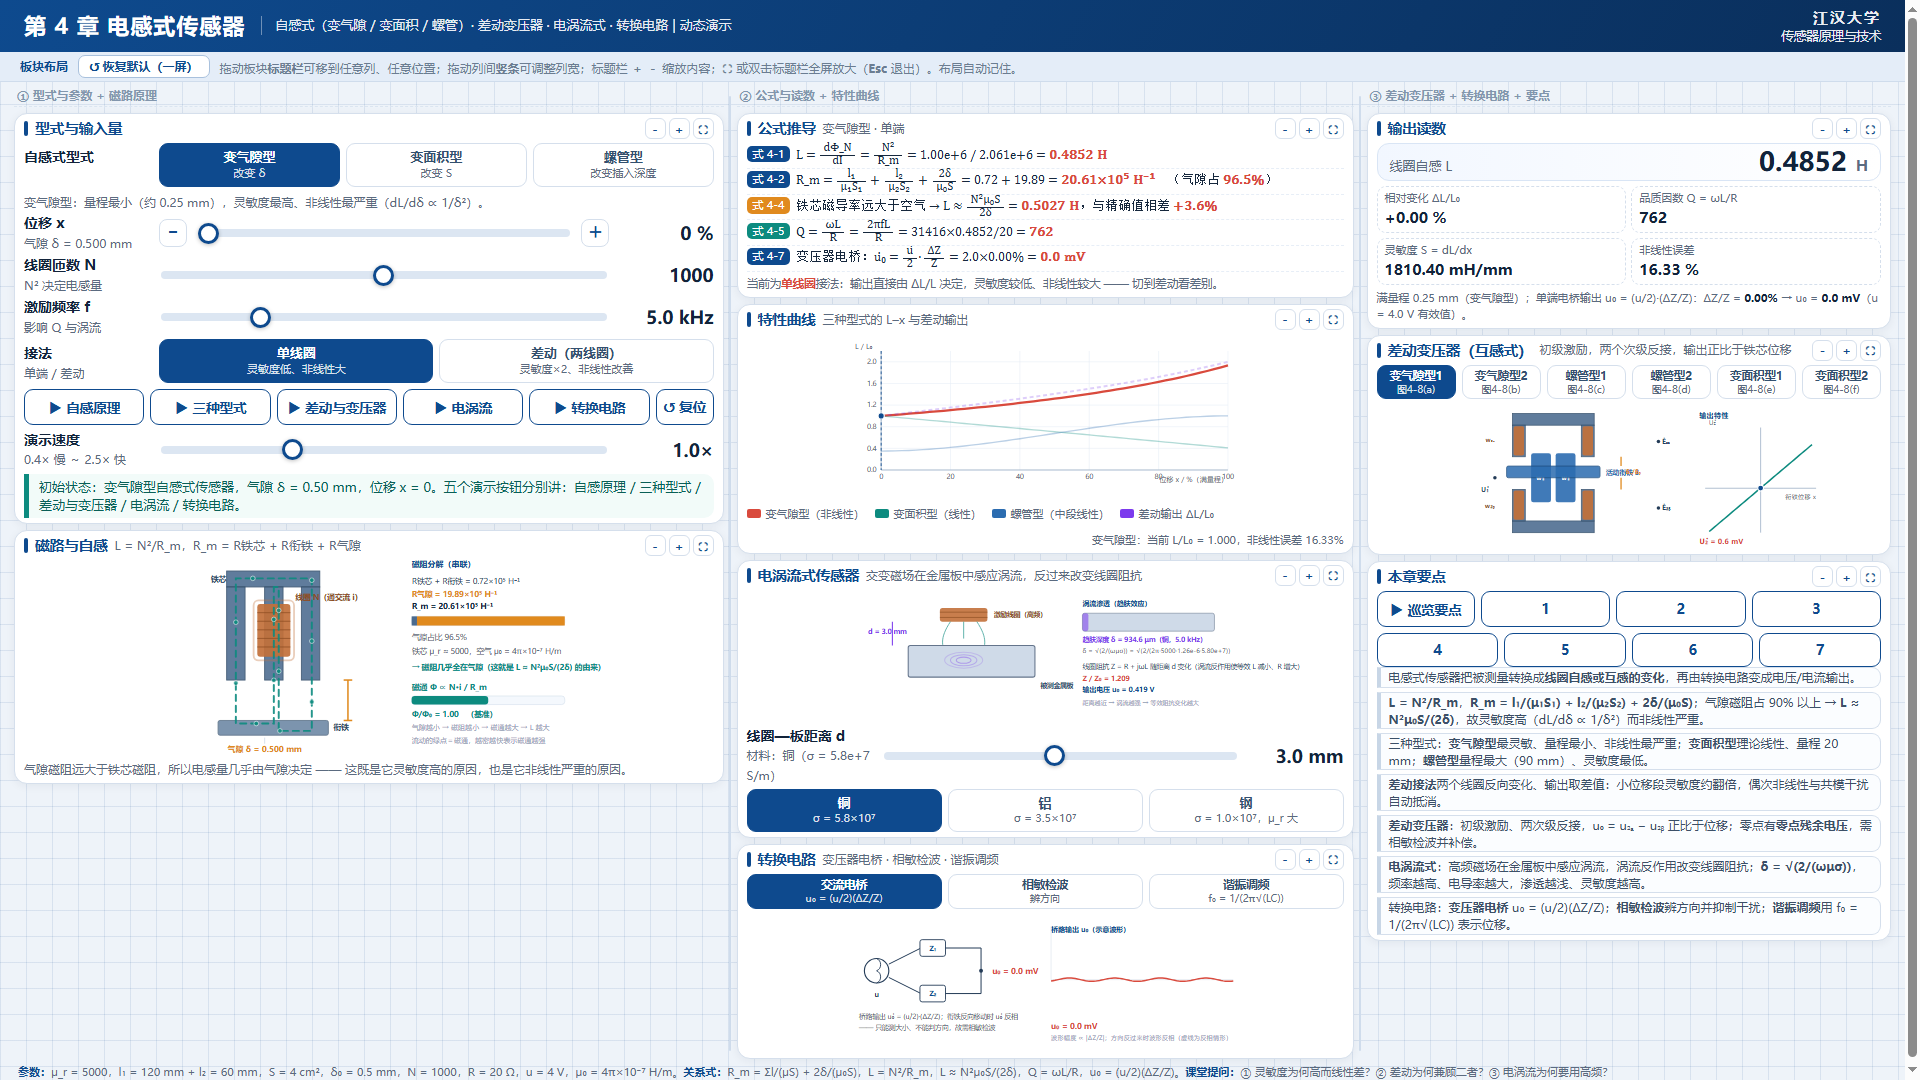
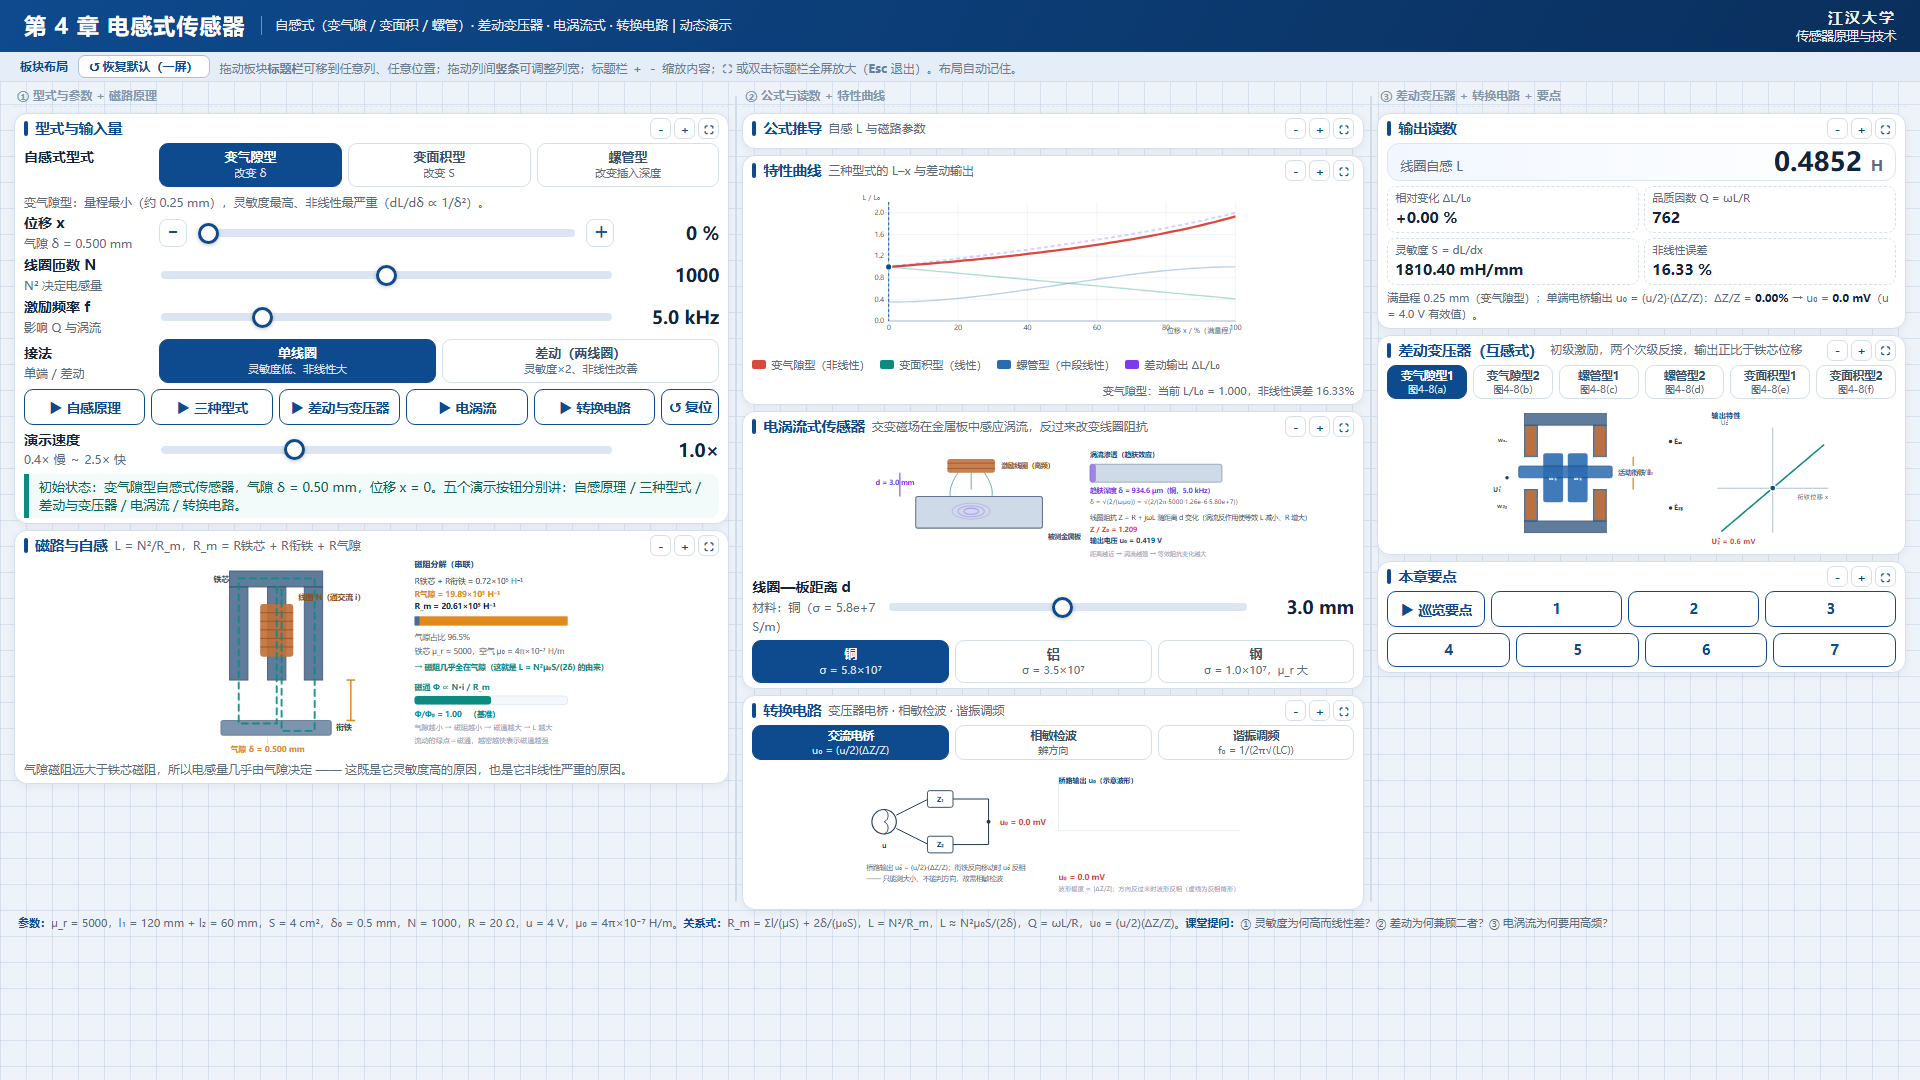
修正螺管型磁阻模型：插入深度改变的是磁路里空气段的长度，空气磁阻随插入显著减小（58.2→18.7×10⁵），不再固定显示 R气隙

diff --git a/传感器原理及检测技术/第4章-电感式传感器-动态演示.html b/传感器原理及检测技术/第4章-电感式传感器-动态演示.html
@@ -389,12 +389,12 @@
           <rect id="barGap" x="0" y="80" width="0" height="15" fill="var(--gapm)"/>
           <text id="gapShare" x="0" y="118" font-size="12.5" fill="#5b6b80">气隙占比 —</text>
           <text x="0" y="142" font-size="12.5" fill="#5b6b80">铁芯 μ_r ≈ 5000，空气 μ₀ = 4π×10⁻⁷ H/m</text>
-          <text x="0" y="168" font-size="12.5" font-weight="700" fill="var(--flux)">→ 磁阻几乎全在气隙（这就是 L ≈ N²μ₀S/(2δ) 的由来）</text>
+          <text id="rmExplain" x="0" y="168" font-size="12.5" font-weight="700" fill="var(--flux)">→ 磁阻几乎全在气隙（这就是 L ≈ N²μ₀S/(2δ) 的由来）</text>
           <text x="0" y="200" font-size="13" font-weight="700" fill="var(--flux)">磁通 Φ ∝ N·i / R_m</text>
           <rect x="0" y="210" width="250" height="14" rx="5" fill="#f4f8fd" stroke="#d5dfec"/>
           <rect id="fluxBar" x="0" y="210" width="0" height="14" rx="5" fill="var(--flux)"/>
           <text id="fluxTxt" x="0" y="244" font-size="12.5" font-weight="700" fill="var(--flux)">Φ/Φ₀ = 1.00</text>
-          <text x="0" y="266" font-size="11.5" fill="#94a3b8">气隙越小 → 磁阻越小 → 磁通越大 → L 越大</text>
+          <text id="fluxNote" x="0" y="266" font-size="11.5" fill="#94a3b8">气隙越小 → 磁阻越小 → 磁通越大 → L 越大</text>
           <text x="0" y="286" font-size="11.5" fill="#94a3b8">流动的绿点＝磁通，越密越快表示磁通越强</text>
         </g>
       </svg>
@@ -843,15 +843,25 @@
     var L0 = Math.pow(N,2)/reluc(CFG.d0, CFG.S, N).Rm;
     if (type === 'gap'){
       var d = CFG.d0 - x*(CFG.d0 - CFG.dMin);          /* 气隙随位移减小 */
-      return { L:Math.pow(N,2)/reluc(d, CFG.S, N).Rm, L0:L0, delta:d, Sarea:CFG.S };
+      var Rg = reluc(d, CFG.S, N);
+      return { L:Math.pow(N,2)/Rg.Rm, L0:L0, delta:d, Sarea:CFG.S,
+               rel:{ iron:Rg.Rfe, air:Rg.Rgap } };
     }
     if (type === 'area'){
       var Sa = CFG.S*(1 - 0.6*x);                       /* 有效面积随位移减小到 40% */
-      return { L:Math.pow(N,2)/reluc(CFG.d0, Sa, N).Rm, L0:L0, delta:CFG.d0, Sarea:Sa };
+      var Ra = reluc(CFG.d0, Sa, N);
+      return { L:Math.pow(N,2)/Ra.Rm, L0:L0, delta:CFG.d0, Sarea:Sa,
+               rel:{ iron:Ra.Rfe, air:Ra.Rgap } };
     }
-    /* 螺管型：插入深度 → 平滑 S 形曲线，相对变化小 */
+    /* 螺管型：无集中气隙，插入深度改变的是磁路里“空气段”的长度。
+       插入越深 → 空气段越短 → 空气磁阻显著减小；衔铁(铁芯)占的磁路比例增大 → 铁芯磁阻小幅上升（占比仍小） */
     var g = x*x*(3 - 2*x);
-    return { L:L0*(0.35 + 0.65*g), L0:L0, delta:CFG.d0, Sarea:CFG.S };
+    var L = L0*(0.35 + 0.65*g);
+    var Rm = Math.pow(N,2)/L;
+    var Riron = 0.72e5 + 1.2e5*x;              /* H⁻¹：随插入深度微增 */
+    var Rair = Math.max(0.1e5, Rm - Riron);    /* H⁻¹：随插入深度显著减小 */
+    return { L:L, L0:L0, delta:CFG.d0, Sarea:CFG.S,
+             rel:{ iron:Riron, air:Rair } };
   }
   function omega(){ return 2*Math.PI*S.f*1000; }
   /* 差动：两个线圈一个 δ+Δ、一个 δ−Δ（或面积、插入深度反向） */
@@ -1115,17 +1125,26 @@
     setFluxPath();
     paintFluxGauge();
 
-    /* --- 磁阻分解 --- */
-    var R = reluc(r.delta, r.Sarea, S.N);
-    $('rmFe').textContent = 'R铁芯 + R衔铁 = ' + (R.Rfe/1e5).toFixed(2) + '×10⁵ H⁻¹';
-    $('rmGap').textContent = 'R气隙 = ' + (R.Rgap/1e5).toFixed(2) + '×10⁵ H⁻¹';
-    $('rmTot').textContent = 'R_m = ' + (R.Rm/1e5).toFixed(2) + '×10⁵ H⁻¹';
-    var share = R.Rgap/R.Rm;
+    /* --- 磁阻分解（随型式：气隙型/面积型 = 气隙磁阻；螺管型 = 空气段磁阻，随插入深度变化） --- */
+    var R = r.rel, isSol = (S.type === 'solenoid');
+    $('rmFe').textContent = (isSol ? 'R衔铁(铁芯)' : 'R铁芯 + R衔铁') + ' = ' + (R.iron/1e5).toFixed(2) + '×10⁵ H⁻¹';
+    $('rmGap').textContent = (isSol ? 'R空气段' : 'R气隙') + ' = ' + (R.air/1e5).toFixed(2) + '×10⁵ H⁻¹';
+    $('rmTot').textContent = 'R_m = ' + ((R.iron + R.air)/1e5).toFixed(2) + '×10⁵ H⁻¹';
+    var share = R.air/(R.iron + R.air);
     $('barFe').setAttribute('width', ((1 - share)*250).toFixed(1));
     $('barFe').setAttribute('x', 0);
     $('barGap').setAttribute('x', ((1 - share)*250).toFixed(1));
     $('barGap').setAttribute('width', (share*250).toFixed(1));
-    $('gapShare').textContent = '气隙占比 ' + (share*100).toFixed(1) + '%';
+    $('gapShare').textContent = (isSol ? '空气占比 ' : '气隙占比 ') + (share*100).toFixed(1) + '%';
+    $('rmExplain').textContent = isSol
+      ? '→ 磁阻几乎全在空气段；插入越深空气段越短（螺管型无集中气隙）'
+      : '→ 磁阻几乎全在气隙（这就是 L ≈ N²μ₀S/(2δ) 的由来）';
+    $('fluxNote').textContent = isSol
+      ? '衔铁插入越深 → 空气段越短 → 磁阻越小 → 磁通越大 → L 越大'
+      : '气隙越小 → 磁阻越小 → 磁通越大 → L 越大';
+    $('magHint').textContent = isSol
+      ? '螺管型没有集中的“气隙”：插入深度直接改变磁路里空气段的长度，空气磁阻随插入而减小 —— 与变气隙型的机制不同。'
+      : '气隙磁阻远大于铁芯磁阻，所以电感量几乎由气隙决定 —— 这既是它灵敏度高的原因，也是它非线性严重的原因。';
 
     /* --- 读数 --- */
     var big = (S.diff === 'differ') ? (pair.up.L - pair.down.L) : r.L;
@@ -1415,7 +1434,7 @@
   /* ============ 9. 要点：编号按钮 + 巡览 ============ */
   var PTS_TEXT = [
     '电感式传感器把被测量转换成<b>线圈自感或互感的变化</b>，再由转换电路变成电压/电流输出。',
-    '<b>L = N²/R_m</b>，<b>R_m = l₁/(μ₁S₁) + l₂/(μ₂S₂) + 2δ/(μ₀S)</b>；气隙磁阻占 90% 以上 → <b>L ≈ N²μ₀S/(2δ)</b>，故灵敏度高（dL/dδ ∝ 1/δ²）而非线性严重。',
+    '<b>L = N²/R_m</b>，<b>R_m = l₁/(μ₁S₁) + l₂/(μ₂S₂) + 2δ/(μ₀S)</b>；气隙/空气磁阻占 90% 以上 → <b>L ≈ N²μ₀S/(2δ)</b>，故灵敏度高（dL/dδ ∝ 1/δ²）而非线性严重。',
     '三种型式：<b>变气隙型</b>最灵敏、量程最小、非线性最严重；<b>变面积型</b>理论线性、量程 20 mm；<b>螺管型</b>量程最大（90 mm）、灵敏度最低。',
     '<b>差动接法</b>两个线圈反向变化、输出取差值：小位移段灵敏度约翻倍，偶次非线性与共模干扰自动抵消。',
     '<b>差动变压器</b>：初级激励、两次级反接，u₀ = u₂ₐ − u₂ᵦ 正比于位移；零点有<b>零点残余电压</b>，需相敏检波并补偿。',
